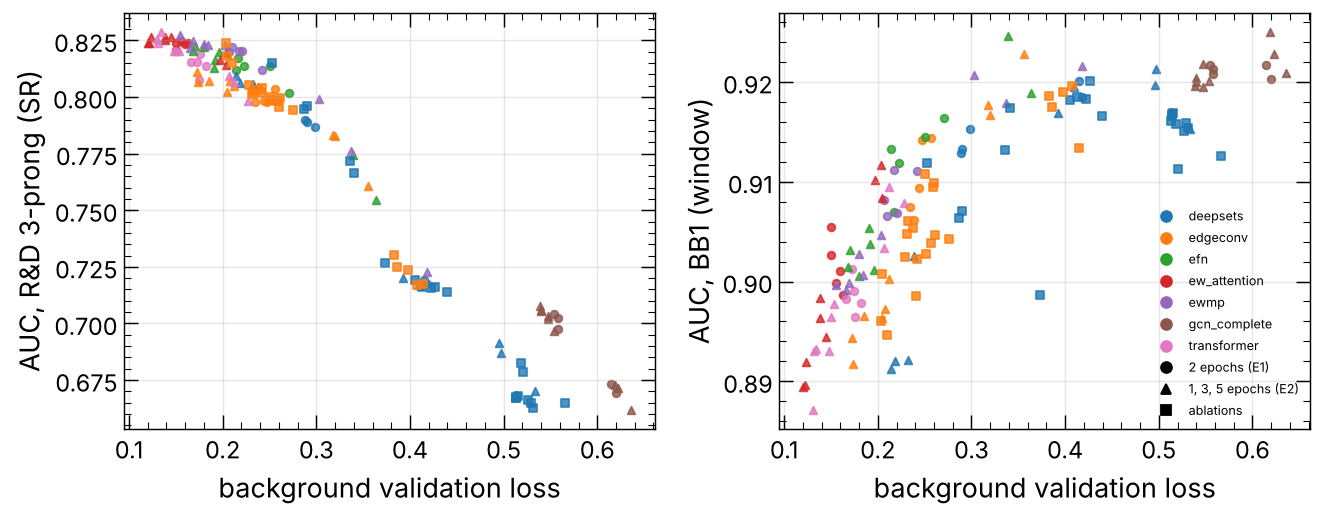
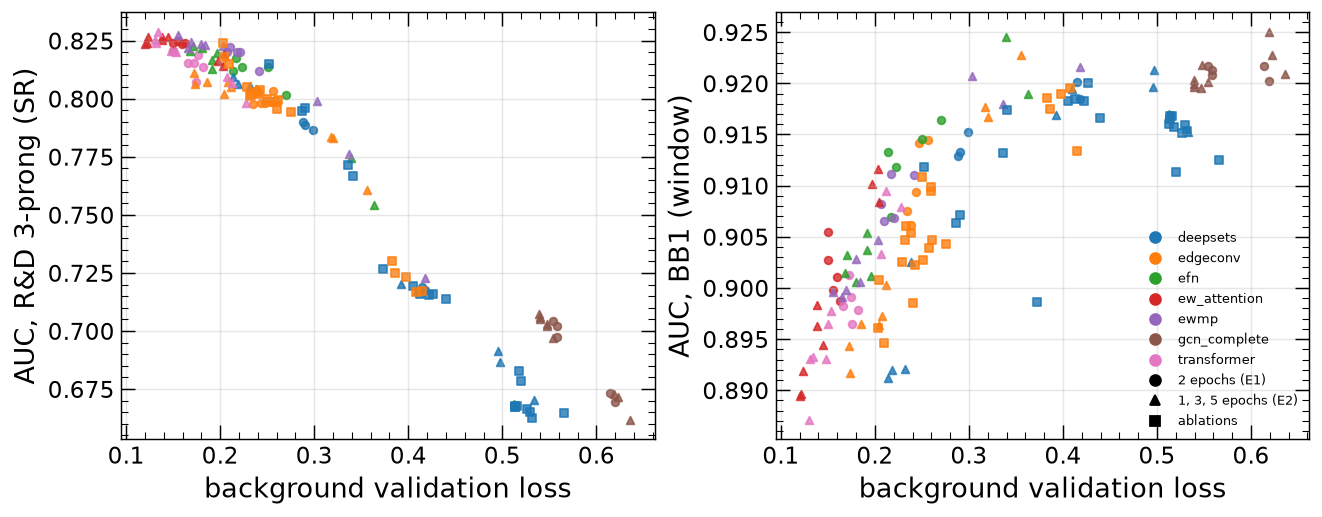
Results draft: add the E4 out-of-sample test of the fit-quality curve; regenerate the figure
Claude-Session: https://claude.ai/code/session_01N1J7uoePiv8deXrt4FjrmS

diff --git a/paper/results_draft.md b/paper/results_draft.md
@@ -1,0 +1,191 @@
+# Results (draft)
+
+Draft of the results section. Every number comes from the committed tables: `results/study/study_table.md`,
+`stct_table.md`, `study_posthoc.md`, `fix_table.md`, `study_n100_table.md`, `study_bb1data_table.md`,
+`e3_summary.md`, `bb1_diagnostics.md`, `bb3_diagnostics.md`, `ablations.md`, and for E4 the ablation
+section of `study_posthoc.md`. Unless stated otherwise:
+
+- the event score is `prod`;
+- each value is a mean ± sample standard deviation over 5 seeds (E1) or 3 seeds (E2, E3);
+- AUC is quoted in the signal window: 3.3–3.7 TeV for R&D, 3.6–4.0 TeV for BB1, 4.0–4.4 TeV for BB3.
+
+The R&D 2-prong signal is the one the recipe was tuned on, and it is never used as evidence. Deviations from the
+protocol are D1–D7 in `docs/STUDY_PROTOCOL.md`.
+
+## 1. Main comparison
+
+Table 1 compares the seven encoders, which share decoder, loss, latent size and training recipe, with the
+baselines.
+
+| encoder / baseline | interaction | IRC-safe | R&D 3-prong AUC | BB1 AUC | BB3 AUC | R&D 3-prong max SIC | BB1 max SIC | JSD (ε_B = 1 %) |
+|---|---|---|---|---|---|---|---|---|
+| Deep Sets | none | no | 0.760 ± 0.038 | 0.916 ± 0.003 | 0.476 ± 0.003 | 1.38 ± 0.06 | 3.10 ± 0.06 | 0.0141 ± 0.0021 |
+| EdgeConv (k-NN) | local graph | no | 0.800 ± 0.003 | 0.910 ± 0.004 | 0.473 ± 0.003 | 1.44 ± 0.02 | 2.88 ± 0.12 | 0.0117 ± 0.0008 |
+| Transformer | attention | no | 0.814 ± 0.004 | 0.899 ± 0.002 | 0.471 ± 0.001 | 1.47 ± 0.01 | 2.46 ± 0.04 | 0.0076 ± 0.0008 |
+| GCN, complete graph | mean over the jet | no | 0.689 ± 0.017 | 0.921 ± 0.001 | 0.460 ± 0.004 | 1.17 ± 0.01 | 3.95 ± 0.09 | 0.0086 ± 0.0008 |
+| EFN-style Deep Sets | none | yes | 0.812 ± 0.006 | 0.913 ± 0.004 | 0.475 ± 0.001 | 1.50 ± 0.02 | 2.88 ± 0.20 | 0.0110 ± 0.0011 |
+| EWMP (radius graph) | local graph | yes | 0.819 ± 0.004 | 0.909 ± 0.002 | 0.474 ± 0.001 | 1.52 ± 0.01 | 2.79 ± 0.11 | 0.0099 ± 0.0017 |
+| energy-weighted attention | attention | yes | 0.823 ± 0.002 | 0.902 ± 0.003 | 0.469 ± 0.000 | 1.52 ± 0.01 | 2.61 ± 0.09 | 0.0081 ± 0.0009 |
+| m_J | – | – | 0.646 | 0.918 | 0.549 | 1.36 | 3.60 | 0.1475 |
+| −τ21 (computed τ, D3) | – | – | 0.683 | 0.917 | 0.515 | 1.15 | 3.95 | – |
+| −τ32 (computed τ) | – | – | 0.805 | 0.636 | 0.514 | 1.59 | 1.03 | – |
+| flow on jet observables (computed τ) | – | – | 0.753 ± 0.001 | 0.804 ± 0.001 | 0.735 ± 0.000 | 1.26 ± 0.00 | 1.41 ± 0.00 | – |
+| EFP k-NN | – | – | 0.462 | 0.490 | 0.554 | 1.00 | 1.00 | 0.0312 |
+
+**The three signals tell different stories.**
+
+- **R&D 3-prong.** The interaction and IRC-safe encoders reach 0.80–0.82. Deep Sets and the complete-graph GCN
+  are clearly worse. No single observable or baseline comes close, except −τ32 at 0.805.
+- **BB1.** BB1 (Z′ → XY with heavy X, Y) is found by every encoder (AUC 0.90–0.92). Jet mass alone (0.918) and
+  −τ21 alone (0.917) do just as well, and the weakest encoders on the 3-prong signal (GCN, Deep Sets) are the
+  strongest here.
+- **BB3.** Every encoder is below 0.5 on BB3 (section 6).
+
+The EFP k-NN baseline reproduces exactly when rerun and has no bug. It is weak at event level, because signal
+events rarely have two anomalous jets (D7).
+
+## 2. Background fit sets the detection performance
+
+Figure 1 (`results/study/figures/study_auc_vs_valloss.png`) plots each run's AUC against its background
+validation loss. It covers all 98 autoencoder runs of E1 and E2 (seven encoders at 1, 2, 3 and 5 epochs), plus
+the 42 E4 ablation runs as squares.
+
+- **One curve, not seven.** Encoders of every kind fall on a single curve.
+- **Opposite directions.** On the R&D 3-prong signal, the AUC rises steadily as the background fit improves:
+  from about 0.67 at loss 0.6 to 0.82–0.83 below loss 0.16. On BB1 it does the opposite: the worst-fitting runs
+  are the best detectors (0.92 at loss ≥ 0.4, against 0.89 at loss 0.13).
+- **Training length moves each encoder along the same curve.** EdgeConv, for example, goes from 0.776 to 0.808 on
+  the 3-prong signal and from 0.919 to 0.894 on BB1 between 1 and 5 epochs.
+- **Seeds do too.** The two low-AUC Deep Sets seeds of E1 (0.72 against 0.79) are the two that fit worst (loss
+  0.42 against 0.29).
+
+A quadratic in the validation loss fitted to all 98 runs leaves a residual spread of 0.011 (3-prong), 0.0045
+(BB1) and 0.0034 (BB3). Table 2 repeats the pre-registered contrasts on these residuals, that is, at equal fit.
+This is post hoc (D2). Because the fit quality is itself a property of the encoder, it is a conditional
+comparison, not a replacement for Table 1.
+
+| contrast | R&D 3-prong, raw → at equal fit | BB1, raw → at equal fit |
+|---|---|---|
+| EdgeConv − Deep Sets (interaction, unsafe) | +0.040* → +0.008 | −0.006* → +0.002 |
+| EWMP − EFN (interaction, safe) | +0.007* → +0.002 | −0.004* → −0.002 |
+| EWMP − EdgeConv (IRC safety, graph) | +0.019* → **+0.011*** | −0.002 → +0.001 |
+| EFN − Deep Sets (IRC safety, no interaction) | +0.051* → **+0.017*** | −0.003 → **+0.006*** |
+| e.w. attention − transformer (IRC safety, attention) | +0.009* → +0.004 | +0.003 → **+0.006*** |
+| GCN complete − Deep Sets (collapse) | −0.071* → +0.014 | +0.005 → +0.001 |
+
+\* significant (raw: protocol rule; at equal fit: |Δ| > 2 SE of the residual difference)
+
+**At equal fit, message passing and attention bring nothing measurable.** Neither primary interaction contrast is
+significant on any signal. Part of the IRC-safety advantage remains: EFN − Deep Sets, EWMP − EdgeConv and
+energy-weighted attention − transformer all keep a positive residual on at least one untuned signal, never a
+significantly negative one.
+
+**Out-of-sample test of the curve (E4, post hoc, D8).** The 42 Deep Sets and EdgeConv ablation runs (latent width
+2–32, pooling, 30 constituents) were not used to fit the curve. Scored on the test signals afterwards, they give:
+
+| signal | curve residual sd (E1 + E2) | mean residual of the ablations | ablations within 2 sd |
+|---|---|---|---|
+| R&D 3-prong | 0.011 | −0.011 | 60 % (width 54 %, pooling 50 %, 30 constituents 100 %) |
+| BB1 | 0.0045 | −0.005 | 90 % |
+| BB3 | 0.0034 | +0.002 | 88 % |
+
+On the black boxes the curve predicts new runs to about ±0.005. On the 3-prong signal it overestimates the
+ablations by 0.011 on average, and about half of the width and pooling variants fall below it. Fit quality
+therefore explains most of the differences between models, but not all of them: on the 3-prong signal, latent
+width and pooling also cost detection at equal fit.
+
+## 3. Hypothesis verdicts
+
+| hypothesis | pre-registered rule | paired seeds | Holm | without low-fit runs | H4: signs at 1, 3, 5 epochs |
+|---|---|---|---|---|---|
+| H1 interaction helps | inconclusive | inconclusive | inconclusive | inconclusive | 3-prong contrasts robust; EdgeConv − Deep Sets on BB1 flips |
+| H2a IRC safety generalises | inconclusive | inconclusive | inconclusive | inconclusive | EWMP − EdgeConv flips at 1 epoch; attention pair flips at 5 |
+| H2b IRC safety sculpts less | supported | inconclusive | inconclusive | supported | EFN − Deep Sets flips at 5 epochs, so only EWMP − EdgeConv is robust |
+| H3 complete-graph GCN collapses | supported | supported | supported | supported | robust |
+
+The pre-registered rules give:
+
+- **H1 (interactions help): inconclusive.** Interactions help on the 3-prong signal and hurt on BB1. Section 2
+  shows both effects follow the fit quality.
+- **H2a (IRC safety generalises): inconclusive.** It is supported on the 3-prong signal only, and that signal is
+  not blind for H2 (D5).
+- **H2b (IRC safety sculpts less): supported but fragile.** It fails with paired seeds and with the Holm
+  correction, and after the H4 check only EWMP − EdgeConv keeps its sign at every training length. The protocol
+  drops a contrast that flips, which leaves H2b inconclusive.
+- **H3 (complete-graph GCN collapses): supported** under every analysis. Its latent space also loses
+  substructure: the MLP probe recovers τ21 with R² 0.24, against 0.50–0.61 for the other encoders.
+
+## 4. IRC safety in practice
+
+- **Collinear splits.** The IRC-safe encoders are exactly invariant when a constituent is split collinearly:
+  Spearman ρ of the background scores is 1.0000 for the top-1, top-5 and all-constituent splits. The unsafe
+  encoders are not. Splitting every constituent drops EdgeConv's ρ to 0.92 and the GCN's to 0.83.
+- **Soft emissions.** Ten soft emissions of 1 % of the jet pT each are the hardest test: ρ is 0.53 for EdgeConv,
+  0.47 for the GCN, 0.79 for EWMP, 0.75 for EFN and 0.98 for energy-weighted attention.
+- **Sculpting.** The dijet-mass sculpting at ε_B = 1 % is low for every autoencoder (JSD 0.008–0.014), far below
+  a cut on jet mass (0.148).
+
+## 5. BB1: found as a heavy-jet signal
+
+On BB1 the encoders do no better than jet mass or −τ21:
+
+- The encoder scores correlate with m_J as strongly on the black box as on R&D (Spearman ρ ≈ 0.7, BB1
+  diagnostics).
+- Their BB1 background is barely shifted from the R&D background (KS 0.03–0.04).
+
+**Trained on BB1's own events** (E3, label-blind, 3 seeds), the encoders reach AUC 0.904–0.908 in the window.
+A bump hunt with a sideband-defined score cut finds the resonance at a local significance of 2.3–2.5σ (10 % cut)
+and 3.2–3.8σ (2 % cut, seed range 1.6–4.4σ). There is no look-elsewhere correction and no fit-parameter
+uncertainty, so this is optimistic, and it is below 5σ.
+
+**The null test passes.** The same procedure applied to BB2 (background only, Herwig) with all 40 R&D-trained main
+runs gives a largest |Z| of 3.3 over 360 window × cut combinations, as expected from chance.
+
+## 6. BB3: the dijet mode looks more ordinary than QCD
+
+Every encoder ranks BB3 signal below the background in the 4.0–4.4 TeV window (AUC 0.46–0.48). The diagnostics
+rule out two artefacts:
+
+- *Generator shift.* The BB3 background scores agree with the R&D background (KS ≈ 0.02; 10–11 % of jets above
+  the R&D 90 % quantile).
+- *Labels.* The modes are identified by their counts, and the Pythia cards confirm the 1200-event mode is the
+  quark decay.
+
+The low AUC comes from the 1200-event dijet mode. Its jets come from a KK gluon decaying to d d̄ (card
+`KKg2qq`). They have fewer constituents than the background in the window (jet AUC of n_const 0.44), and the
+encoders score them as more ordinary (jet AUC 0.44).
+
+The trijet mode (KK gluon → g + radion → ggg) is found (jet AUC ≈ 0.71), but only 137 of its 2000 events fall
+in the window. The flow on jet observables reaches 0.735 because it also uses pT, where the dijet mode differs
+(jet AUC of pT 0.76). Note for the text: the LHCO paper's description of the dijet mode as gluonic does not
+match the card (D4).
+
+## 7. Ablations (H5, descriptive; 2-prong validation only)
+
+- **Latent width.** Width 4–16 is equivalent. Width 2 is worse for every encoder (AUC 0.81–0.82 against
+  0.84–0.86 at width 4), and width 32 is worse and less stable.
+- **Pooling.** EdgeConv with pT-weighted pooling is the best configuration of the study on the dev signal (AUC
+  0.854 ± 0.003). PMA pooling hurts Deep Sets badly (0.778).
+- **Constituents.** 30 constituents are slightly worse than 50.
+- **100 constituents** (E3, R&D-trained) change nothing that matters: EdgeConv 0.801, EWMP 0.820, transformer
+  0.817 on the 3-prong signal; BB1 0.904–0.912; BB3 below 0.5 again.
+
+## 8. Reproducibility
+
+- **Rescoring.** Rescoring seed 1 of every encoder from the committed weights reproduces all 288 committed
+  metrics of each run exactly (F1).
+- **Splits.** All sessions verified the splits hash.
+- **Run quality.** No main-grid or curve run was flagged. Two of 57 ablation runs were flagged; they stay in the
+  means.
+
+## Limitations to state
+
+- **The recipe.** It was tuned for EdgeConv on the 2-prong signal. Section 2 suggests this matters less than
+  feared, because the fit quality, not the recipe, decides.
+- **Statistics.** The black boxes give few signal events in the window (BB1: 512; BB3 trijet: 137).
+- **Generator dependence.** All signals are Pythia + Delphes.
+- **The equal-fit comparison** is post hoc and conditions on a mediator.
+- **The fit-quality curve is not universal.** It holds out of sample on the black boxes, but on the 3-prong
+  signal the latent-width and pooling ablations fall about 0.011 below it (section 2). The headline should be
+  "fit quality explains most of the differences", not "fit quality decides".
+- **Seeds.** H4 rests on 3 seeds per training length.
